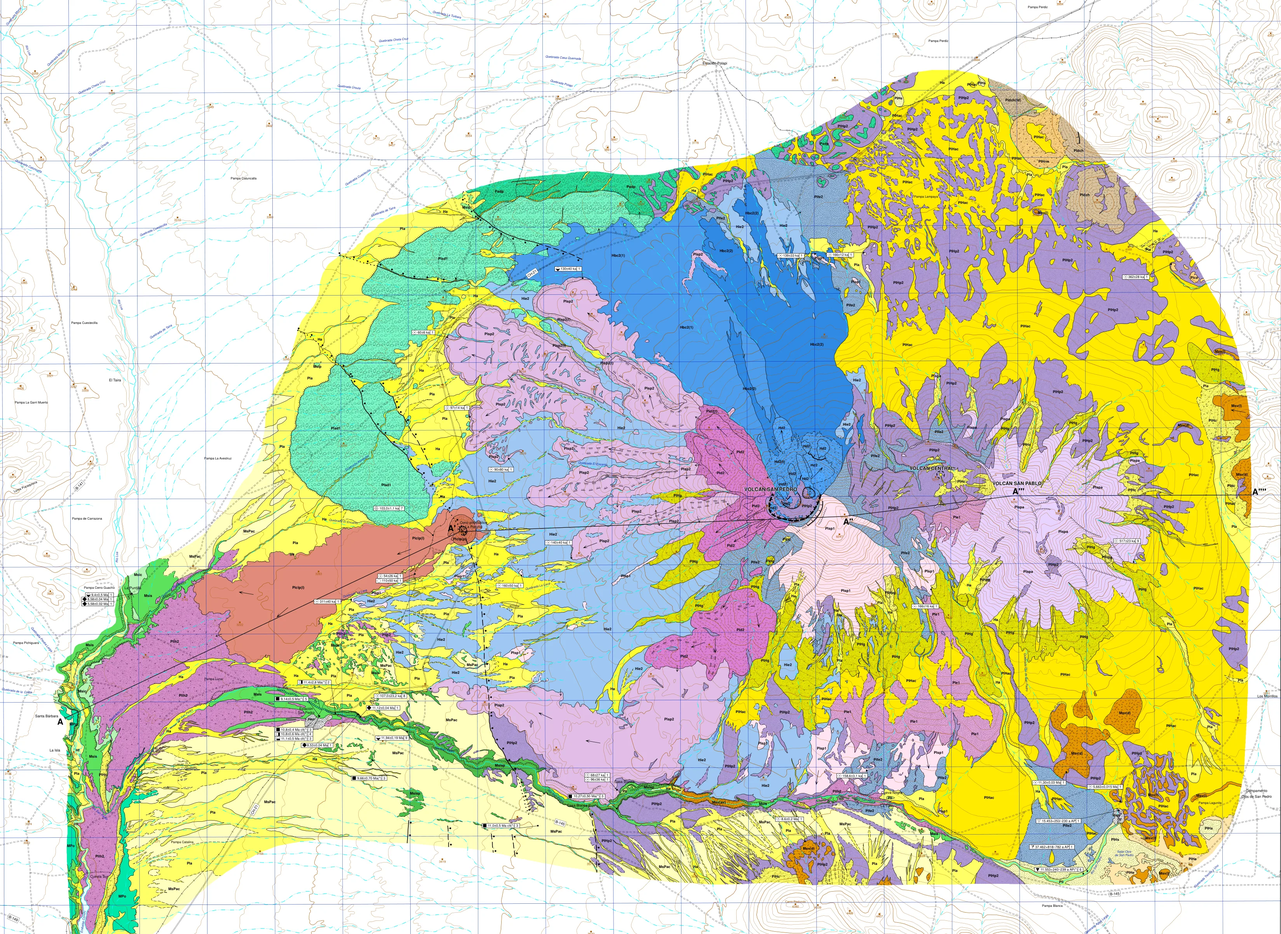
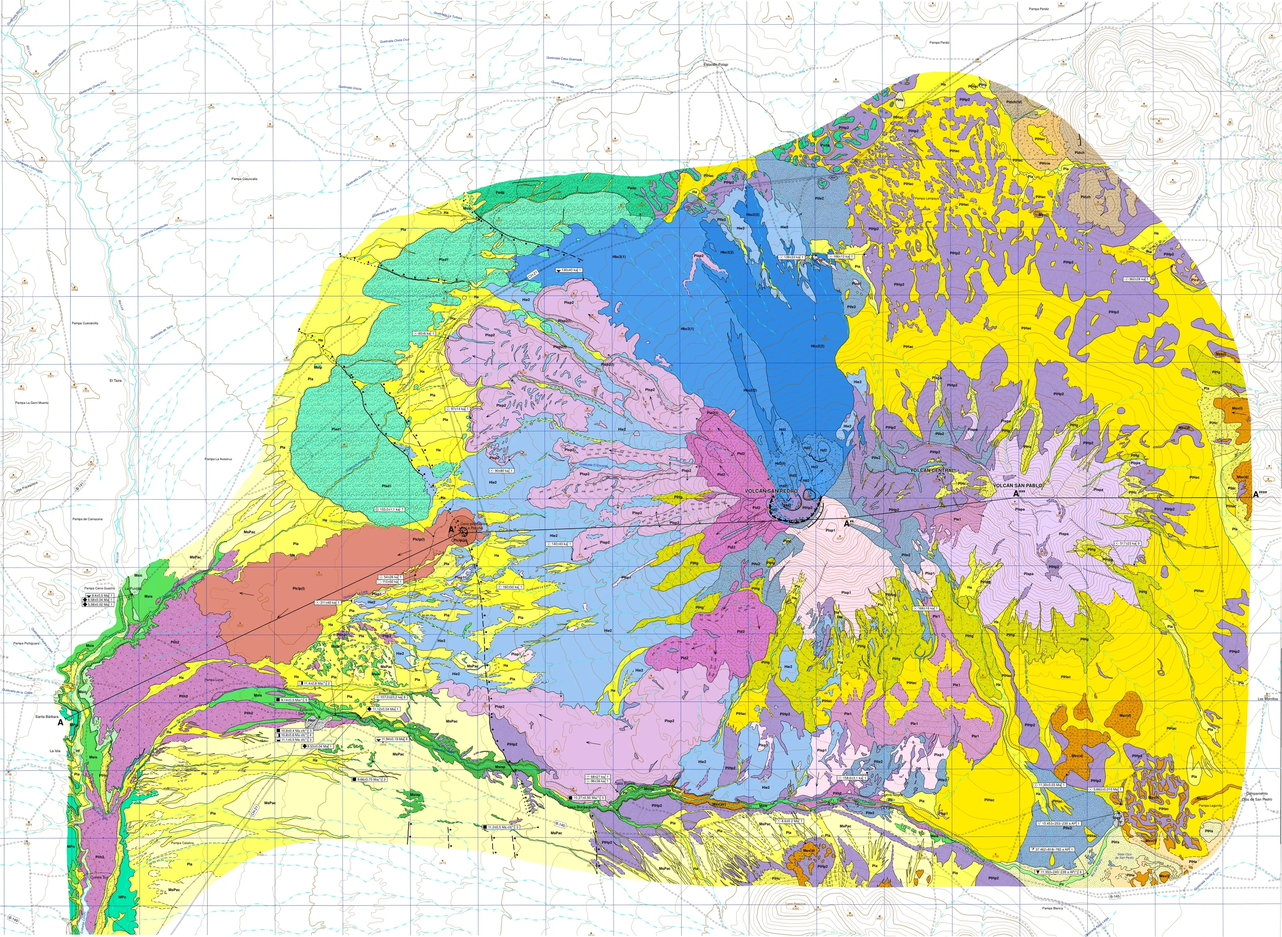
GB-201 Volcán San Pedro corregido (84 m → 1 m; relieve SRTM y SIG vecino M418 coinciden a 7 m); GB-127 recortado al marco de la hoja

diff --git a/index.html b/index.html
@@ -116,7 +116,7 @@
 <script>
 const CATS = [["geologia","🗺 Geología Básica"],["aplicada","⚠ Geología Aplicada"],
   ["historico","📜 Histórico"],["academico","🎓 Académicos"],["hillshade","🏔 Hillshade"]];
-const ASSET_V = '?v=20261010d';   // cache-bust de overlays/leyendas (subir al cambiar assets)
+const ASSET_V = '?v=20261010e';   // cache-bust de overlays/leyendas (subir al cambiar assets)
 const map = L.map('map',{center:[-33.9,-71.2],zoom:5});
 const bases = {
   "Satelital": L.tileLayer('https://server.arcgisonline.com/ArcGIS/rest/services/World_Imagery/MapServer/tile/{z}/{y}/{x}',{maxZoom:19,attribution:'Esri'}),
